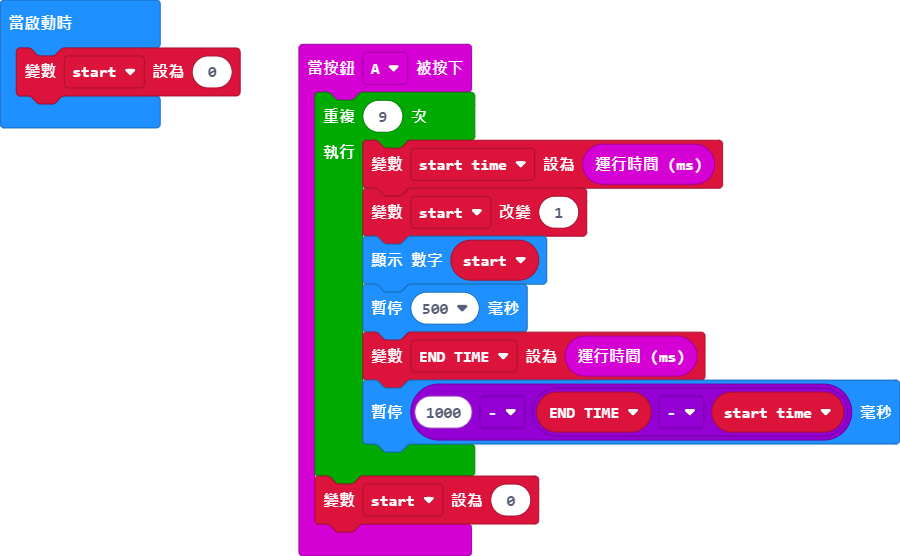
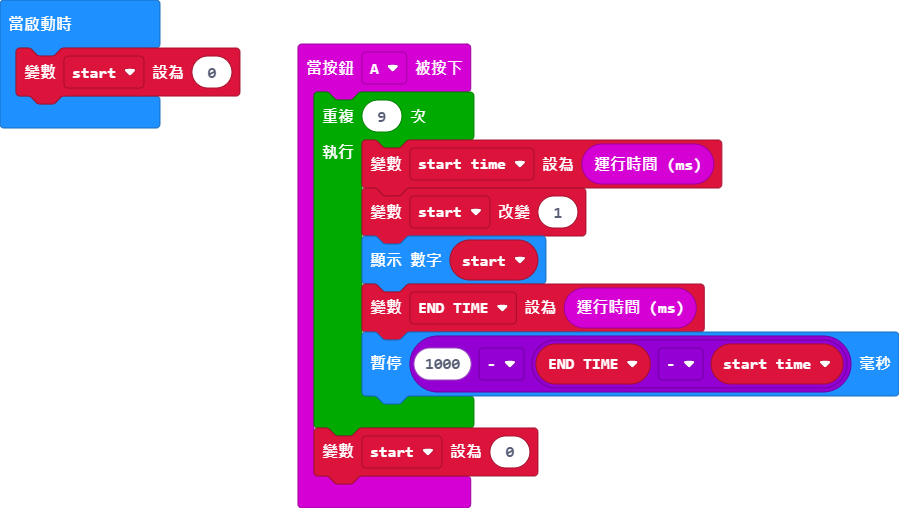
更新 main.blocks, main.ts

Changed region(s): [[0.3115, 0.0591, 1.0, 0.9449], [0.0, 0.0295, 0.2803, 0.2657], [0.3737, 0.9449, 0.4049, 0.9744]]

diff --git a/main.ts b/main.ts
@@ -3,7 +3,6 @@ input.onButtonPressed(Button.A, function () {
         start_time = input.runningTime()
         start += 1
         basic.showNumber(start)
-        basic.pause(500)
         END_TIME = input.runningTime()
         basic.pause(1000 - (END_TIME - start_time))
     }
